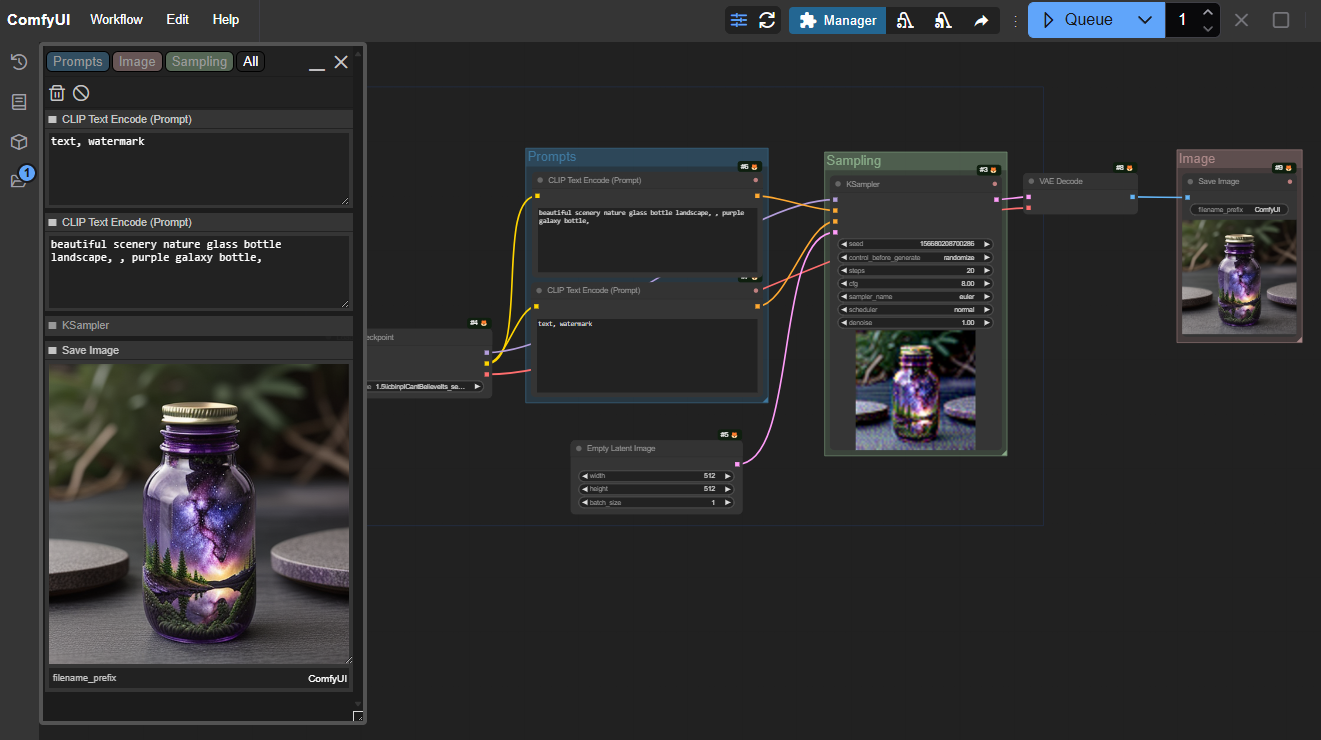
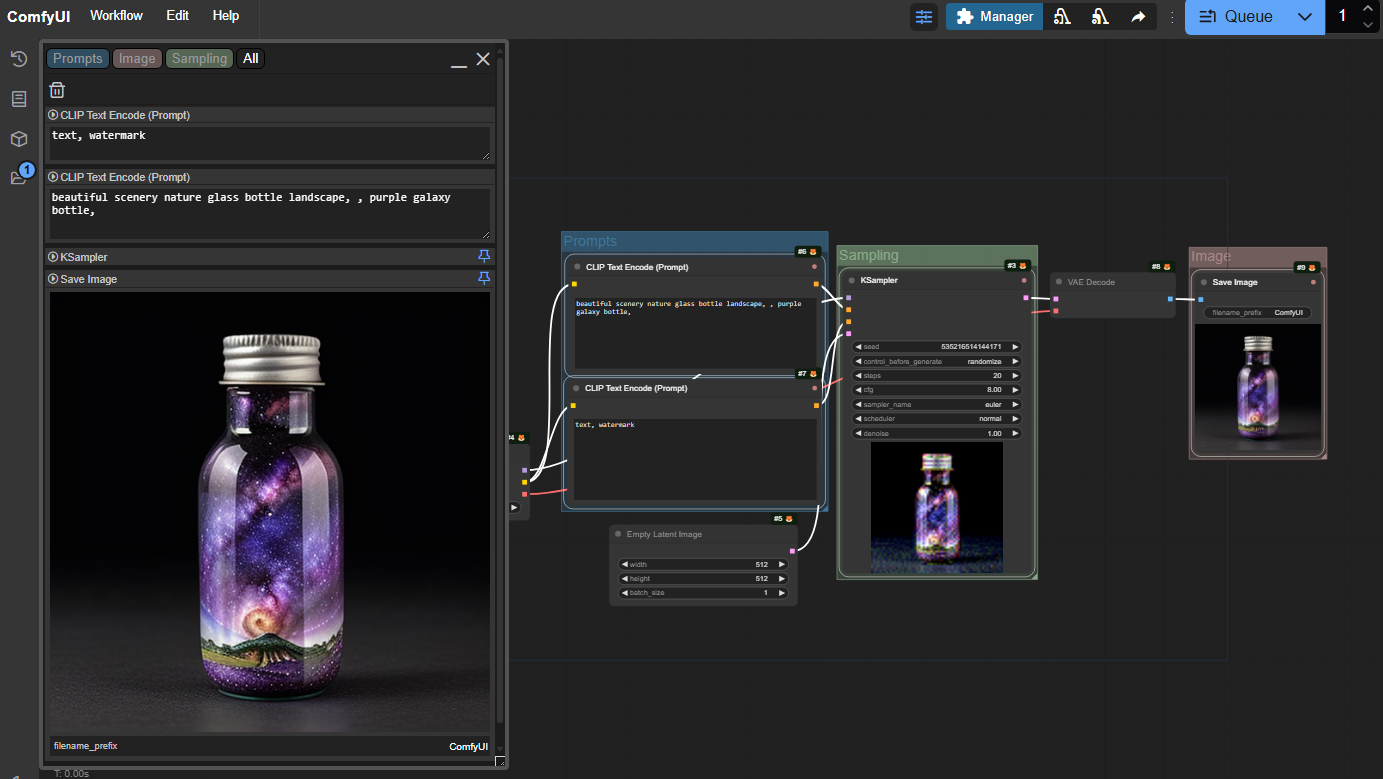
1.3.1

Changed region(s): [[0.0, 0.0, 0.807, 1.0], [0.838, 0.1865, 0.9932, 0.5905], [0.5587, 0.0, 1.0, 0.0622]]

diff --git a/__init__.py b/__init__.py
@@ -1,4 +1,4 @@
-VERSION = "1.3"
+VERSION = "1.3.1"
 WEB_DIRECTORY = "./js"
 
 NODE_CLASS_MAPPINGS= {}

diff --git a/README.md b/README.md
@@ -19,12 +19,10 @@ The Controller is toggled using a button in the top menu. When the sliders icon 
 
 ![top](images/top.png)
 
-To create a Controller window, right click on the background and select "New Controller" from the menu (if it isn't there, check the Controller is active!).
+There will normally be one controller window created for you. If not, or to add more, 
+right click on the background and select "New Controller" from the menu (if it isn't there, check the Controller is active!).
 
 At first, the Controller will be empty. To add nodes to it, right-click on the node and in the Controller Panel menu select "Include this node".
-
-The button next to the Controller toggle is the refresh. Not all changes in the workflow are automatically picked up by the controller, 
-so sometimes after you make a change you will need to click this.
 
 ![menu](images/menu.png)
 
@@ -34,15 +32,12 @@ so when you look at the workflow you can easily see which nodes are included.
 The node, with all standard widgets (we'll work to include the most popular custom widgets in future releases!) will now appear in the controller
 as a panel with the same title and colour as the node, underneath which are all the widgets. 
 
-|Controller|Node|
-|-|-|
-|![nodeblock](images/nodeblock.png)|![node](images/ksampler.png)|
-||Where is the control_before_generate? It's hidden, but you can change that in the settings|
+![widgets](images/widgets.png)
 
 If you now edit the values in those widgets, the changes will be reflected in the workflow (and vica versa). 
 Combo boxes, toggle switches, buttons, and text fields all work just as you would expect. 
 
-Numeric fields (like cfg in the image) a represented using an editable slider. 
+Numeric fields (like width in the image) a represented using an editable slider. 
 Click on the slider and drag left or right, and the value will change between the minimum and maximum values.
 You can also just hover the mouse over the slider and move the value up or down with your mouse scrollwheel.
 To enter a precise value, double click and the slider turns into a text entry box where you can type the value you want.
@@ -69,39 +64,44 @@ doesn't bring up the menu any more). If you want to get rid of a tab, switch to 
 
 ## The other icons
 
+![other icons](images/other_icons.png)
+
+The play button indicates that all of the nodes in this group are currently active (not bypassed or muted).
+You can use it to bypass or mute a group. (Mute is refered to as 'never' in some places)
+
+|Icon|Meaning|Click will...|Ctrl-click will...|
+|-|-|-|-|
+|![0](images/0.png)|Group nodes active|Bypass group|Mute group|
+|![2](images/2.png)|Group nodes muted|Activate group|Activate group|
+|![4](images/4.png)|Group nodes bypassed|Activate group|Mute group|
+|![29](images/9.png)|Mixed state in group|Activate group|Activate group|
+
 The little lightning bolt icon is used to show/hide any nodes that were added as advanced controls. 
 If there are no advanced control, this icon won't be shown.
 
-The no-entry sign (circle with slash) is a placeholder - in a forthcoming release it will be
-used to toggle the group between active and bypassed.
-
-In the top right there is a minimise button, and a close button which can be used to minimise or close
-this controller window. A minimised controller just shows the tab name and the 'X':
-
-![minimised](images/minimised.png)
-
-click the tab name to restore the controller to full size.
+Nodes which include an image also have a pin in the top right corner: ![pin](images/pin.png)
+When this is active (blue, the default) the image will be shown at the full width of the controller. 
+If you unpin the image, you will find a handle at the bottom right of the image that can be used to resize it (vertically).
 
 ## Other things to explore
 
-### Rearrange the nodes
+### Multiple controllers
 
-<img src="images/drag.png" style="padding-right:8px;"/>
+Remember, you can add more controllers any time by right clicking on the canvas. You can also close controllers with the 'X',
+or minimise them with the '_'.
+
+### Rearrange the nodes
 
 You can rearrange the node panels in the controller by clicking on the node panel title bar and dragging it up or down.
 
 ### Collapse nodes
 
-<img src="images/collapse.png" style="padding-right:8px;"/>
-
-You can save space by collapsing the node panels, just like you can collapse nodes in the workflow. Just click the square
-at the left-hand side of the title bar, click it again to expand.
+You can save space by collapsing the node panels, just like you can collapse nodes in the workflow. 
+Click on the title bar without dragging to collapse, click it again to expand.
 
 ### Resize text and images
 
-<img src="images/resize.png" style="padding-right:8px;"/>
-
-Multiline text fields and image displays can be rescaled up or down using the resize handle in the bottom right hand corner of the widget.
+Multiline text fields and (unpinned) image displays can be rescaled up or down using the resize handle in the bottom right hand corner of the widget.
 As you drag the height is shown as an overlay, in case you want to make things the same size.
 
 ### The workflow is still there
@@ -111,11 +111,6 @@ The Controller is just a way of viewing it (and changing widgets values).
 
 Some changes that you make will not be immediately reflected in the Controller (for instance, if you change the colour of a node), 
 but you just need to click the refresh button (top right of the Controller) to bring it up to date.
-
-### Images
-
-The Controller works with Load, Save and Preview image nodes. The image preview nodes also show the interim images shown in the sampler, if you
-have that feature turned on.
 
 ### Settings
 
@@ -142,12 +137,12 @@ in future releases, probably starting with rgthree's Power Lora Loader.
 Future features will depend on community feedback, but some of the top contenders right now are...
 
 - Visual links between the controller and workflow (highlight node on hover)
-- Toggling bypass 
 - Selecting which widgets on a node to show
+- 'Snapping' controller windows to each other and the edges of the display
 
 For more details of what's under consideration, take a look at the [issues list](https://github.com/chrisgoringe/cg-controller/issues), 
 and feel free to add your ideas there, or 
-jump into the discussion [here](https://github.com/chrisgoringe/cg-controller/discussions/210).
+jump into the discussion [here](https://github.com/chrisgoringe/cg-controller/discussions).
 
 # Bug reports
 
